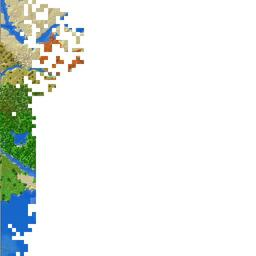
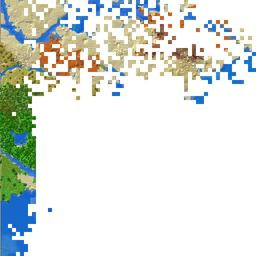
map update

diff --git a/unmined/unmined.map.regions.js b/unmined/unmined.map.regions.js
@@ -1,6 +1,6 @@
 var UnminedRegions = [
+{ x: 0, z: -1, m: new Uint32Array([0,0,0,0,0,0,0,0,0,0,0,1,3,3,3,1,1,3,7,1,1,1,1,1,1,1,1,1,3,3,1,7,0,0,0,0,0,0,0,0,0,0,0,0,0,0,0,0,0,0,0,0,0,0,0,0,0,0,0,0,0,0,0,0,0,0,0,0,0,0,0,0,0,0,0,0,0,0,0,0,0,0,0,0,0,0,0,0,0,0,0,0,0,0,0,0,0,0,0,0,0,0,0,0,0,0,0,0,0,0,0,0,0,0,0,0,0,0,0,0,0,0,0,0,0,0,0,0,0,0,0,0,0,0,0,0,0,0,0,0,0,0,0,0,0,0,0,0,0,0,0,0,0,0,0,0,0,0,0,0,0,0,0,0,0,0,0,0,0,0,0,0,0,0,0,0,0,0,0,0,0,0,0,0,0,0,0,0,0,0,0,0,0,0,0,0,0,0,0,0,0,0,0,0,0,0,0,0,0,0,0,0,0,0,0,0,0,0,0,0,0,0,0,0,0,0,0,0,0,0,0,0,0,0,0,0,0,0,0,0,0,0,0,0,0,0,0,0,0,0,0,0,0,0,0,0]) },
 { x: 0, z: 0, m: new Uint32Array([524295,1,0,0,0,0,0,0,0,0,0,0,0,0,0,0,0,786432,786432,524288,0,0,0,0,0,0,0,0,0,0,0,0,0,0,0,0,0,0,0,0,0,0,0,0,0,0,0,0,0,0,0,0,0,0,0,0,0,0,0,0,0,0,0,0,0,0,0,0,0,0,0,0,0,0,0,0,0,0,0,0,0,0,0,0,0,0,0,0,0,0,0,0,0,0,0,0,0,0,0,0,0,0,0,0,0,0,0,0,0,0,0,0,0,0,0,0,0,0,0,0,0,0,0,0,0,0,0,0,0,0,0,0,0,0,0,0,0,0,0,0,0,0,0,0,0,0,0,0,0,0,0,0,0,0,0,0,0,0,0,0,0,0,0,0,0,0,0,0,0,0,0,0,0,0,0,0,0,0,0,0,0,0,0,0,0,0,0,0,0,0,0,0,0,0,0,0,0,0,0,0,0,0,0,0,0,0,0,0,0,0,0,0,0,0,0,0,0,0,0,0,0,0,0,0,0,0,0,0,0,0,0,0,0,0,0,0,0,0,0,0,0,0,0,0,0,0,0,0,0,0,0,0,0,0,0,0]) },
 { x: -1, z: -1, m: new Uint32Array([0,0,0,0,0,0,0,0,0,0,2147483648,3221225472,2147483648,2147483648,2147483648,2147483648,2147483648,2147483648,2147483648,2147483648,2147483648,2147483648,2147483648,2147483648,2147483648,2147483648,2147483648,2147483648,2147483648,2147483648,2147508224,3221352448,0,0,0,0,0,0,0,0,0,0,0,0,0,0,0,0,0,0,0,0,0,0,0,0,0,0,0,0,0,0,0,0,0,0,0,0,0,0,0,0,0,0,0,0,0,0,0,0,0,0,0,0,0,0,0,0,0,0,0,0,0,0,0,0,0,0,0,0,0,0,0,0,0,0,0,0,0,0,0,0,0,0,0,0,0,0,0,0,0,0,0,0,0,0,0,0,0,0,0,0,0,0,0,0,0,0,0,0,0,0,0,0,0,0,0,0,0,0,0,0,0,0,0,0,0,0,0,0,0,0,0,0,0,0,0,0,0,0,0,0,0,0,0,0,0,0,0,0,0,0,0,0,0,0,0,0,0,0,0,0,0,0,0,0,0,0,0,0,0,0,0,0,0,0,0,0,0,0,0,0,0,0,0,0,0,0,0,0,0,0,0,0,0,0,0,0,0,0,0,0,0,0,0,0,0,0,0,0,0,0,0,0,0,0,0,0,0,0,0,0,0,0,0,0]) },
 { x: -1, z: 0, m: new Uint32Array([3221352448,2147532800,0,0,0,0,0,0,0,0,0,0,0,0,0,0,0,0,0,0,0,0,0,0,0,0,0,0,0,0,0,0,0,0,0,0,0,0,0,0,0,0,0,0,0,0,0,0,0,0,0,0,0,0,0,0,0,0,0,0,0,0,0,0,0,0,0,0,0,0,0,0,0,0,0,0,0,0,0,0,0,0,0,0,0,0,0,0,0,0,0,0,0,0,0,0,0,0,0,0,0,0,0,0,0,0,0,0,0,0,0,0,0,0,0,0,0,0,0,0,0,0,0,0,0,0,0,0,0,0,0,0,0,0,0,0,0,0,0,0,0,0,0,0,0,0,0,0,0,0,0,0,0,0,0,0,0,0,0,0,0,0,0,0,0,0,0,0,0,0,0,0,0,0,0,0,0,0,0,0,0,0,0,0,0,0,0,0,0,0,0,0,0,0,0,0,0,0,0,0,0,0,0,0,0,0,0,0,0,0,0,0,0,0,0,0,0,0,0,0,0,0,0,0,0,0,0,0,0,0,0,0,0,0,0,0,0,0,0,0,0,0,0,0,0,0,0,0,0,0,0,0,0,0,0,0]) },
-{ x: 0, z: -1, m: new Uint32Array([0,0,0,0,0,0,0,0,0,0,0,1,3,3,3,1,1,1,1,1,1,1,1,1,1,1,1,1,3,3,1,7,0,0,0,0,0,0,0,0,0,0,0,0,0,0,0,0,0,0,0,0,0,0,0,0,0,0,0,0,0,0,0,0,0,0,0,0,0,0,0,0,0,0,0,0,0,0,0,0,0,0,0,0,0,0,0,0,0,0,0,0,0,0,0,0,0,0,0,0,0,0,0,0,0,0,0,0,0,0,0,0,0,0,0,0,0,0,0,0,0,0,0,0,0,0,0,0,0,0,0,0,0,0,0,0,0,0,0,0,0,0,0,0,0,0,0,0,0,0,0,0,0,0,0,0,0,0,0,0,0,0,0,0,0,0,0,0,0,0,0,0,0,0,0,0,0,0,0,0,0,0,0,0,0,0,0,0,0,0,0,0,0,0,0,0,0,0,0,0,0,0,0,0,0,0,0,0,0,0,0,0,0,0,0,0,0,0,0,0,0,0,0,0,0,0,0,0,0,0,0,0,0,0,0,0,0,0,0,0,0,0,0,0,0,0,0,0,0,0,0,0,0,0,0,0]) },
 ];
